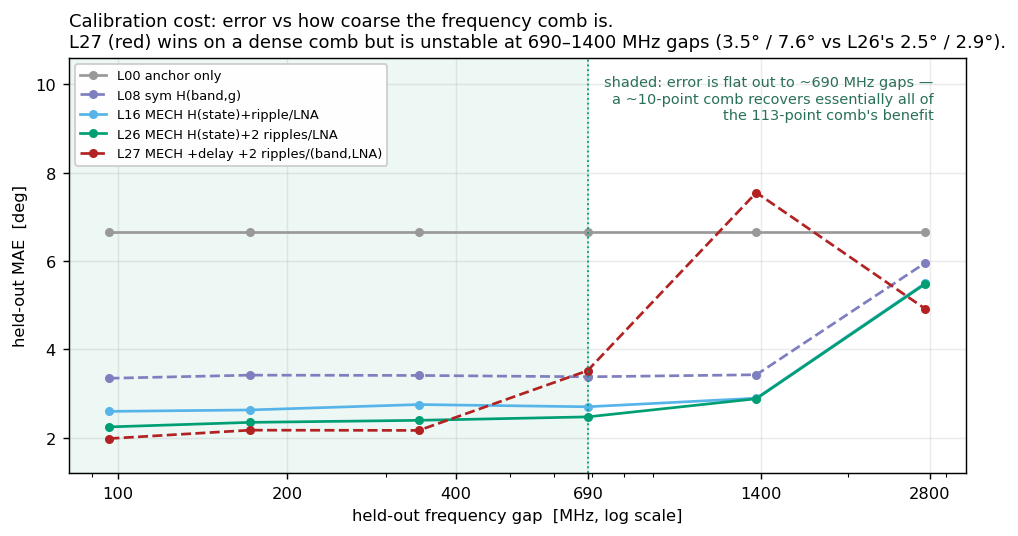
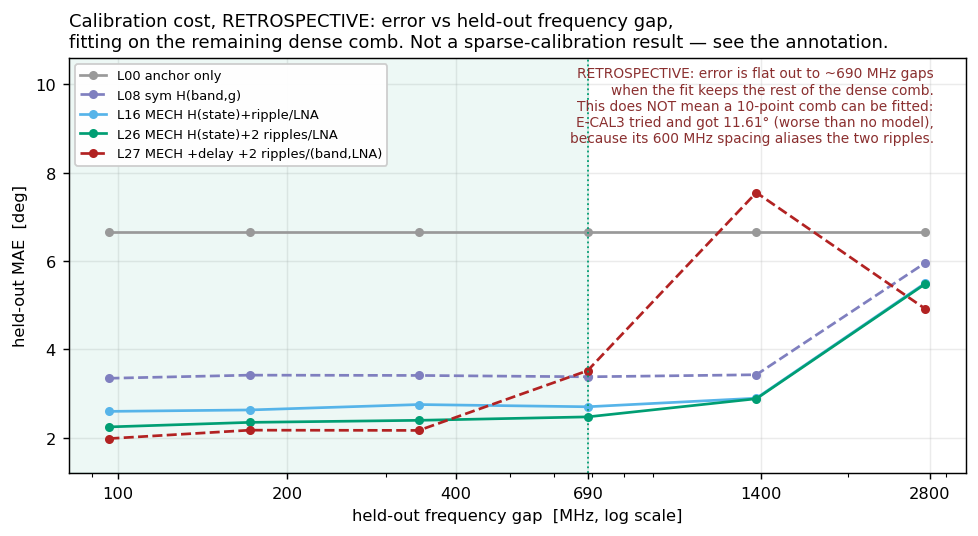
gain-state model: fold the 2026-08-07 findings back into the package
The package shipped before the prospective captures and the follow-up analysis.
Several of its claims are now stale and two would have led someone into the
experiment that was just rejected.

Refit guidance was the dangerous one. fit_from_extracted.py and the README both
offered "a fresh coarse comb" as a use case -- exactly what E-CAL3 tried, for
11.61 deg against a 9.06 deg anchor-only baseline. Both now say otherwise, and
the tool has check_comb_conditioning(): it returns the ripple-basis condition
number, flags LO spacings where the two delays alias, and warns from the CLI.
Verified against the known cases -- the E-CAL3 comb scores 17.78 and flags, the
dense 113-LO comb 1.03 and a random ten-point comb 1.69, both clean. The
guidance is now to freeze tau from a committed set rather than refit it.

(One bug found and fixed while writing that check: it first flagged the dense
comb as BAD. Aliasing needs the LO step to advance the beat by a whole NON-ZERO
number of cycles; the dense comb sits at 0.082 cycles/step, which is
oversampling and healthy.)

fig7 was worse than stale -- its baked-in annotation still asserted that a
~10-point comb recovers essentially all of the dense comb's benefit, so the
figure contradicted the prose above it. Regenerated: it now labels itself
RETROSPECTIVE, explains that the flatness is robustness to one missing interval
rather than a sparse-calibration result, and names the failure and its cause.

Substantive updates:
[…]

diff --git a/spf/calibrations/gain_state_phase_model_v1/fit_from_extracted.py b/spf/calibrations/gain_state_phase_model_v1/fit_from_extracted.py
@@ -1,9 +1,28 @@
 """Refit the gain-state model from extracted campaign scalars.
 
 This is the path to use when new calibration data arrives -- an E-CAL2 LNA fill,
-a fifth radio, a fresh coarse comb -- and you want coefficients that cover the
-new states. It reads only the small ``.npz`` scalar extracts produced by the
-source analysis' ``extract.py``, never the multi-GB V7 stores directly.
+a fifth radio, a denser comb -- and you want coefficients that cover the new
+states. It reads only the small ``.npz`` scalar extracts produced by the source
+analysis' ``extract.py``, never the multi-GB V7 stores directly.
+
+**Do not refit from a sparse comb without checking its conditioning.** E-CAL3
+refitted this model from ten uniformly spaced LOs and got 11.61 deg on the
+held-out frequencies -- worse than the 9.06 deg anchor-only baseline, i.e. worse
+than shipping no model at all. The cause was not the point count but the
+*spacing*: at 600 MHz steps, ``600e6 * (tau1 - tau2) = 0.984`` cycles, so the two
+ripple components alias onto each other. That comb's ripple-basis condition
+number is 17.92 against a random-10 median of 2.35 -- roughly 1 comb in 2000 is
+worse. Random ten-point combs reach 4.30 deg.
+
+``check_comb_conditioning()`` below computes that number, and ``fit()`` warns
+when it is bad. Two practical rules follow:
+
+* With the delays **free**, ~16 LOs are needed before a refit reliably beats
+  anchor-only. With them **frozen** at fleet values, ~8 suffice, and a
+  well-conditioned ten-point comb recovers ~73% of the dense-fit improvement.
+  Prefer freezing ``tau_seconds`` from a committed set over refitting them.
+* Those figures come from subsampling one dense capture. No bench-time
+  reduction is licensed until a sparse comb is captured prospectively.
 
     python -m spf.calibrations.gain_state_phase_model_v1.fit_from_extracted \
         --extracted /path/to/extracted \
@@ -121,6 +140,65 @@ def circ_stats(err_rad: np.ndarray) -> dict[str, float]:
     }
 
 
+def check_comb_conditioning(
+    lo_hz, tau_seconds=(2.56e-9, 0.92e-9)
+) -> dict:
+    """Condition number of the ripple basis on this LO set.
+
+    The ripple basis is ``[cos(2*pi*f*tau_k), sin(2*pi*f*tau_k)]`` for each
+    delay. When the LO spacing makes the two delays indistinguishable the basis
+    becomes near-singular and the refit is unidentifiable no matter how good the
+    data is -- which is exactly how the E-CAL3 ten-point comb failed.
+
+    Returns the condition number, the per-pair alias fraction (how many whole
+    cycles of ``tau_i - tau_j`` fit in one LO step -- near an integer is bad),
+    and a verdict. Reference points: the E-CAL3 comb scored 17.92, the median
+    random ten-point comb scores 2.35.
+    """
+    los = np.unique(np.asarray(lo_hz, dtype=float))
+    cols = []
+    for t in tau_seconds:
+        cols.append(np.cos(2 * np.pi * los * t))
+        cols.append(np.sin(2 * np.pi * los * t))
+    basis = np.column_stack(cols)
+    cond = float(np.linalg.cond(basis))
+
+    aliases = []
+    if len(los) > 1:
+        step = float(np.median(np.diff(los)))
+        for i, ti in enumerate(tau_seconds):
+            for tj in tau_seconds[i + 1:]:
+                cycles = step * abs(ti - tj)
+                # Aliasing needs the LO step to advance the beat between the two
+                # delays by a whole NON-ZERO number of cycles. Near zero means
+                # the beat is oversampled, which is the healthy case -- the dense
+                # 50 MHz comb sits at 0.082 cycles/step and is fine.
+                nearest = round(cycles)
+                aliased = nearest >= 1 and abs(cycles - nearest) < 0.1
+                aliases.append(
+                    {
+                        "delay_pair_ns": [ti * 1e9, tj * 1e9],
+                        "cycles_per_lo_step": cycles,
+                        "nearest_integer": int(nearest),
+                        "distance_from_integer": abs(cycles - nearest),
+                        "aliased": bool(aliased),
+                    }
+                )
+    any_aliased = any(a["aliased"] for a in aliases)
+    if cond > 10 or any_aliased:
+        verdict = "BAD - refit will be unidentifiable; freeze the delays"
+    elif cond > 5:
+        verdict = "MARGINAL - prefer frozen delays"
+    else:
+        verdict = "ok"
+    return {
+        "n_los": int(len(los)),
+        "condition_number": cond,
+        "aliasing": aliases,
+        "verdict": verdict,
+    }
+
+
 def evaluate(f: dict, folds, *, n_ripples: int, ref_name: str) -> dict:
     """Fit per fold on the training rows only and score the held-out rows.
 
@@ -184,6 +262,21 @@ def main() -> None:
           f"LOs={len(np.unique(f['lo_hz']))}  "
           f"gains={sorted(set(f['g1'].tolist()) | set(f['g2'].tolist()))}")
     print(f"baseline D (anchor only): {circ_stats(f['D'])}")
+
+    cond = check_comb_conditioning(f["lo_hz"])
+    print(f"\ncomb conditioning: kappa={cond['condition_number']:.2f}  "
+          f"({cond['n_los']} LOs)  -> {cond['verdict']}")
+    for a in cond["aliasing"]:
+        if a["aliased"]:
+            print(f"  WARNING: delays {a['delay_pair_ns'][0]:.2f}/"
+                  f"{a['delay_pair_ns'][1]:.2f} ns alias at this LO spacing "
+                  f"({a['cycles_per_lo_step']:.3f} cycles per step, i.e. ~"
+                  f"{a['nearest_integer']} whole cycle(s)). The two ripple "
+                  f"components are not separable here.")
+    if cond["condition_number"] > 10:
+        print("  This comb is worse-conditioned than ~99.9% of random combs of "
+              "the same size.\n  Refitting the delays from it will not work -- "
+              "freeze them from a committed set.")
 
     if args.holdout != "none":
         keyed = {"frequency": f["lo_hz"], "epoch": f["epoch"],

diff --git a/spf/calibrations/gain_state_phase_model_v1/make_figures.py b/spf/calibrations/gain_state_phase_model_v1/make_figures.py
@@ -448,17 +448,19 @@ def fig_calibration_cost(out: Path):
     ax.axvspan(0, 690, color=C_MODEL, alpha=0.07)
     ax.set_ylim(1.2, 10.6)
     # no leader line: at this aspect ratio an arrow reads as another data series
-    ax.text(2850, 10.2,
-            "shaded: error is flat out to ~690 MHz gaps —\n"
-            "a ~10-point comb recovers essentially all of\n"
-            "the 113-point comb's benefit",
-            fontsize=8, color="#2a6f5a", va="top", ha="right")
+    ax.text(2850, 10.4,
+            "RETROSPECTIVE: error is flat out to ~690 MHz gaps\n"
+            "when the fit keeps the rest of the dense comb.\n"
+            "This does NOT mean a 10-point comb can be fitted:\n"
+            "E-CAL3 tried and got 11.61° (worse than no model),\n"
+            "because its 600 MHz spacing aliases the two ripples.",
+            fontsize=7.6, color="#8a2f2f", va="top", ha="right")
     ax.set_xscale("log")
     ax.set_xlabel("held-out frequency gap  [MHz, log scale]")
     ax.set_ylabel("held-out MAE  [deg]")
-    ax.set_title("Calibration cost: error vs how coarse the frequency comb is.\n"
-                 "L27 (red) wins on a dense comb but is unstable at 690–1400 MHz "
-                 "gaps (3.5° / 7.6° vs L26's 2.5° / 2.9°).", loc="left")
+    ax.set_title("Calibration cost, RETROSPECTIVE: error vs held-out frequency gap,\n"
+                 "fitting on the remaining dense comb. Not a sparse-calibration "
+                 "result — see the annotation.", loc="left")
     leg = ax.legend(fontsize=7.2, loc="upper left", frameon=True,
                     framealpha=0.96, edgecolor="#cccccc")
     leg.get_frame().set_facecolor("white")

diff --git a/spf/calibrations/gain_state_phase_model_v1/demo.py b/spf/calibrations/gain_state_phase_model_v1/demo.py
@@ -143,7 +143,10 @@ def main() -> None:
     print("\n  For reference: with a per-frequency equal-gain anchor already applied,")
     print("  changing the gain pair still costs 6.65 deg MAE / 18.4 deg P95 /")
     print("  41.6 deg max if you do nothing. L26 takes that to 2.26 deg MAE at an")
-    print("  unmeasured frequency and 2.22 deg at an unmeasured radio.")
+    print("  unmeasured frequency and 2.22 deg at an unmeasured radio -- but those")
+    print("  are dense-comb CROSS-VALIDATION figures. Prospectively, on a fresh")
+    print("  103-LO capture, the committed coefficients score 4.8 deg against a")
+    print("  9.06 deg anchor-only baseline. Treat 4.8 deg as the number to plan on.")
     print(f"\n{RULE}\nSee README.md for the physical backing, the full performance")
     print(f"tables, the limitations, and the queued follow-up experiments.\n{RULE}")
 

diff --git a/spf/calibrations/gain_state_phase_model_v1/README.md b/spf/calibrations/gain_state_phase_model_v1/README.md
@@ -35,6 +35,12 @@ Everything here is derived from
 `docs/learnings.md` entry **L10** (the distilled conclusion). Verification of
 every number reproduced here is in [`PROVENANCE.md`](PROVENANCE.md).
 
+The 2026-08-07 prospective captures (E-CAL2, E-CAL3) and the follow-up
+computational analysis have since revised several conclusions. Those live in
+[`../dual_rx_gain_frequency/reports/gain_state_computational_20260807_v1/`](../dual_rx_gain_frequency/reports/gain_state_computational_20260807_v1/)
+and in §8.1 of the source report; the affected sections below carry the updates
+inline.
+
 > **Prospective status (2026-08-07):** the committed L26 model reduces the
 > anchor-only error from 9.06° to about 4.8° on a fresh 103-LO holdout, but a new
 > fit using only ten pre-registered LOs is worse than anchor-only. The earlier
@@ -118,9 +124,18 @@ D(f, g1, g2) = H(s1) − H(s2)
   H(s) = h_lna[LNA] + h_mix[MIXER] + h_tia[TIA] + h_lpf[LPF]
 ```
 
-The delays are grid-searched, not assumed, and land in the same place on both
-radios and across every fold. They differ slightly between fits, so quote the
-set you are actually using rather than a single canonical pair:
+The delays are grid-searched, not assumed. **`τ1` is solid; `τ2` is not.** `τ1`
+reproduces at 2.54–2.56 ns on both radios, across every A–G fold, and
+independently on the 53-LO wide survey. `τ2` does **not** reproduce on the wide
+survey — it collapses to the grid edge there, so the second ripple component
+rests on the A–G comb alone. Treat it as provisional.
+
+Note also that the two ripple slots are **exchangeable**: in refits below 32 LOs
+they swap between 42% and 75% of the time. Sort the fitted pair before comparing
+across fits, or you will read a slot swap as a delay change.
+
+The fitted values differ slightly between fits, so quote the set you are actually
+using rather than a single canonical pair:
 
 | Coefficient set | τ1 | τ2 |
 |---|---:|---:|
@@ -352,14 +367,22 @@ step by exactly which audited word it changes:
   | **31→32 dB** | **LNA 1→2**, LPF | **−2.6° to −4.4°** |
   | **49→50 dB** | **LNA 2→3**, LPF | **−14.3° to −16.7°** |
 
-  Every one of these is an RF-word step accompanied by an LPF move, and an
-  LPF-only step is worth 0.343°, so the RF word dominates in each. The mixer
-  steps land at the same order as the campaign's 2.664° median. The LNA steps
-  are 2.6–16.7° — far larger, as the ripple mechanism implies. The source report
-  does not cite these; they are a different experiment on different dates, so
-  they are **not poolable with the campaign's `H` statistics as-is**, but they
-  are direct adjacent-1 dB LNA evidence that no longer needs a new capture.
-  See E-CAL2 in §6.
+  **This is now settled, from committed data.** The 2026-08-07 computational
+  re-analysis recovered **318 adjacent-1 dB LNA transitions** from the wide
+  survey's committed coefficients, spanning 53 LOs and all three bands: median
+  **7.983°** against a same-dataset LPF-only floor of **0.180°** — a ratio of
+  **44.46×** (CI [35.32, 53.98]).
+
+  There is even one perfectly clean case, with no other word co-moving:
+  **high band, 40→41 dB moves LNA 2→3 with MIXER, TIA and LPF all frozen**,
+  worth 16.775° over 32 clusters. Only `RF_DC_CAL` co-moves, and that is
+  independently bounded at ≲0.7°.
+
+  So the LNA's role no longer rests on four 9 dB steps and an inference from the
+  ripple. These are a different experiment on different dates and remain **not
+  poolable with the campaign's `H` statistics**, and the 0.180° floor is a
+  *fitted* floor with measurement noise already smoothed out — but the effect is
+  44× it, so the conclusion is not fragile.
 
 **The cleanest single demonstration** is stage E. Across 27→40 dB at 5100 and
 5766 MHz the audited state never leaves `(LNA 2, MIX 4, TIA 1)` — only the
@@ -452,11 +475,15 @@ error**, not about parameter equality. §3.1 shows the fitted curves diverge abo
 
 Stated plainly, because a "mechanistic" label can oversell:
 
-- **`h_tia` earns nothing, and on stage A it is not even identified.** The
-  source report states it "is separately identified but fits to −0.20 ± 0.42°",
-  and that removing it moves every holdout number by ≤0.01°. The second half
-  holds. The first does not hold on stage A, and I could not reconcile the
-  quoted value with the shipped coefficients, so use them rather than it:
+- **`h_tia` should be dropped. It is unidentified on stage A and negligible
+  where it *is* identified.** This was open when the package shipped and is now
+  resolved. On the wide survey — where every integer gain breaks the stage-A
+  collinearity — `h_tia` measures **0.240°**, below the 0.355–0.368° noise floor,
+  and removing it moves every holdout by **≤0.092°**. It buys nothing.
+
+  It is retained in the shipped coefficients only because dropping it changes the
+  model and therefore needs a new provenance-named set under the append-only
+  rule, not an edit to these files. Until then, do not read it:
 
   On stage A the TIA family is **perfectly collinear with MIXER = 1** — TIA 0
   occurs only at 5 dB, which is also the only MIX 1 cell, in all three bands.
@@ -610,8 +637,12 @@ universally across both radios.
 ![calibration cost](figures/fig7_calibration_cost.png)
 
 *Why L26 rather than the more accurate L27: on a dense comb L27 (red) wins, but
-past ~690 MHz gaps it diverges badly while L26 (green) stays flat. The shaded
-region is where a deployable comb would actually live.*
+past ~690 MHz gaps it diverges badly while L26 (green) stays flat.*
+
+***Read the axis carefully.** This is the error when one gap is held out and the
+fit keeps the rest of the dense comb. It is a robustness-to-a-missing-interval
+result, **not** a sparse-calibration result. E-CAL3 tested the sparse claim
+prospectively and rejected it — see above.*
 
 The retrospective error is **flat from 96 MHz to ~690 MHz held-out gaps** when
 the fit still has the rest of the dense comb available. That demonstrates
@@ -622,8 +653,35 @@ can identify the nonlinear frequency basis.
 Fitting L26 from exactly ten pre-registered LOs gave 11.61° MAE on the other 103
 LOs, versus 9.06° for the anchor alone. Applying the already committed dense-fit
 coefficients gave 4.79–4.80° MAE, so useful frequency structure transfers, but
-not at the claimed ≤3° precision. Sparse calibration now requires a frequency
-basis learned from dense fleet data and an identifiability-optimised LO set.
+not at the claimed ≤3° precision.
+
+**The cause is now known, and it was computable before the capture.** The failure
+was the comb's *spacing*, not its point count. At 600 MHz steps,
+
+```text
+600 MHz × (τ1 − τ2) = 600 MHz × 1.64 ns = 0.984 cycles
+```
+
+— one whole cycle, so the two ripple components alias onto each other and become
+individually unidentifiable. That comb's ripple-basis condition number is
+**17.92** against a random-ten-point median of **2.35**; roughly 1 comb in 2000
+is worse. *Random* ten-point combs reach **4.30°**.
+
+**Two rules follow, and `fit_from_extracted.py` now enforces the first:**
+
+1. **Check the conditioning before capturing a sparse comb.**
+   `check_comb_conditioning()` returns the condition number and flags aliasing;
+   the fitting CLI warns automatically.
+2. **Freeze the delays rather than refitting them.** With delays free, ~16 LOs
+   are needed before a refit reliably beats anchor-only. With them frozen at
+   fleet values, ~8 suffice, and a well-conditioned ten-point comb recovers
+   **73.4%** of the dense-fit-achievable improvement (4.299° against an 8.355°
+   baseline, winning 24/24 subsets).
+
+So the architecture the source report recommended — learn the nonlinear basis
+once fleet-wide, fit only the linear terms per unit — is validated. But all of
+that is retrospective subsampling of one dense capture: **no bench-time
+reduction is licensed until a sparse comb is captured prospectively.**
 
 ### 4.4 Unseen radios — what is radio-specific? Nothing but the anchor
 
@@ -721,11 +779,14 @@ not by itself open up much of this grid — widening the **requested-gain** set 
 the operating LOs would. (The 51 supported gains per band is a coincidence of
 75−24 and 73−22, not a shared cause.)*
 
-Part of this is a **coverage hole**, not only an extrapolation limit: within the
-A–G campaign **LNA index 1 was never measured at any frequency**, and LNA index 3
-only in the high band. (The 2.4 GHz integer-gain runs do reach LNA 1, but at two
-LOs in one band — not enough to make a frequency-spanning fit band-portable.)
-**E-CAL2** separates the two causes.
+**E-CAL2 has now separated the two causes, and it is not a coverage hole.** The
+2026-08-07 capture filled the missing gain states, and the 2026-08-07 re-analysis
+re-ran leave-one-band-out with **all four LNA levels present in all three
+bands**. It is still **3.727°** at 95.7% coverage.
+
+Band non-portability is therefore confirmed as a genuine **frequency-
+extrapolation limit**. Every operating band must be sampled directly; no amount
+of gain-state coverage fixes it.
 
 ### 4.8 Versus the per-frequency LUT — different jobs
 
@@ -1035,6 +1096,19 @@ corrected = model.correct_measured_phase(
 )
 ```
 
+> **Two things to know before you rely on a prediction.**
+>
+> **Cross-band prediction fails closed.** Nothing in the ladder cleared the
+> promotion bar for predicting across an unmeasured gain-table band, so the model
+> refuses rather than guessing. If your operating LO is in a band you have not
+> calibrated, this model has nothing for you — sample that band.
+>
+> **Coverage is narrower than it looks near unusual gain states.** On the E-CAL2
+> state-fill cells the shipped coefficients refuse **32–68%** of cells, and where
+> they do predict they score 7.2846° against the anchor's 7.3434° — i.e. barely
+> better than nothing. That is correct fail-closed behaviour, but check
+> `supported_gains_db()` for your operating point rather than assuming coverage.
+
 `predict()` returns the full story rather than a bare number — whether the cell
 was supported, whether the rule-5 guard fired, the decoded hardware state of each
 arm, and a human-readable reason:
@@ -1056,7 +1130,11 @@ instances retain the offending arm, field, and level for structured logging.
 
 ### Refit it
 
-When new data arrives — an E-CAL2 LNA fill, a fifth radio, a fresh coarse comb:
+When new data arrives — an E-CAL2 LNA fill, a fifth radio, a denser comb.
+**Check the comb's conditioning first** (the tool now does this automatically and
+warns): E-CAL3 refitted from ten uniformly spaced LOs and got 11.61° against a
+9.06° anchor-only baseline — worse than shipping nothing. Prefer freezing
+`tau_seconds` from a committed set over refitting them.
 
 ```bash
 python -m spf.calibrations.gain_state_phase_model_v1.fit_from_extracted \

diff --git a/spf/calibrations/gain_state_phase_model_v1/PROVENANCE.md b/spf/calibrations/gain_state_phase_model_v1/PROVENANCE.md
@@ -11,7 +11,8 @@ reference implementation deliberately differs from the source pipeline.
 | Source analysis (model ladder, mechanism, holdouts) | [`../dual_rx_gain_frequency/reports/gain_state_phase_model_20260802_v1/`](../dual_rx_gain_frequency/reports/gain_state_phase_model_20260802_v1/) |
 | Source campaign (A–G controlled spectroscopy, 2026-07-30) | [`../dual_rx_gain_frequency/reports/spectroscopy_campaign_20260730_v1/`](../dual_rx_gain_frequency/reports/spectroscopy_campaign_20260730_v1/) |
 | Distilled conclusion | [`docs/learnings.md`](../../../docs/learnings.md) entry **L10** |
-| Queued follow-ups | [`docs/future_experiments.md`](../../../docs/future_experiments.md) **E-CAL1**–**E-CAL4** |
+| Queued follow-ups | [`docs/future_experiments.md`](../../../docs/future_experiments.md) **E-CAL1**–**E-CAL4**, **E-GSC1–5**, **E-GSP1–6** |
+| Prospective validation + follow-up analysis (2026-08-07) | [`../dual_rx_gain_frequency/reports/gain_state_computational_20260807_v1/`](../dual_rx_gain_frequency/reports/gain_state_computational_20260807_v1/) and §8.1 of the source report |
 | Raw V7/LMDB stores (read-only, outside Git) | `/mnt/qnap01/mouse9911/share/spf_campaigns/spectroscopy_20260730_full{,_r2}` |
 | Gain-table audit (source of `gain_tables_audited.json`) | `.../spectroscopy_20260730_full_r2/gain_table_audit.json` |
 
